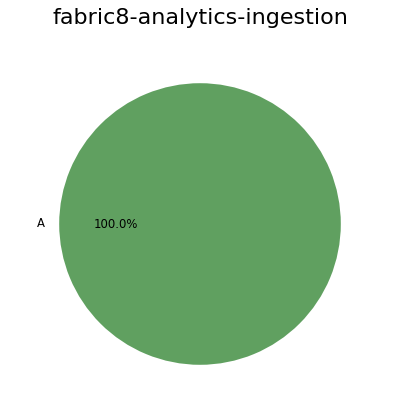
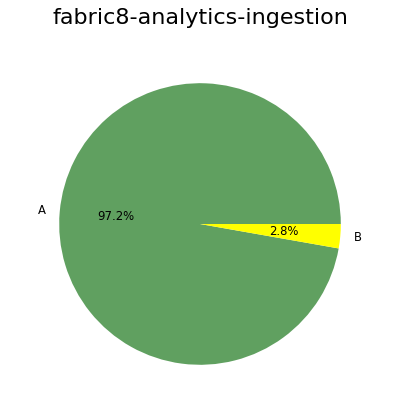
Dashboard 2018-06-20

Changed region(s): [[0.51, 0.54, 0.9, 0.63], [0.24, 0.51, 0.36, 0.57], [0.09, 0.51, 0.12, 0.57]]

diff --git a/dashboard/dashboard.html b/dashboard/dashboard.html
@@ -49,7 +49,7 @@
                                     <a href='https://ci.centos.org/job/devtools-test-end-to-end-prod-fabric8-analytics'>link</a>
                                 </td>
                             <td style="width:3ex">
-                                <a href='https://ci.centos.org/job/devtools-test-end-to-end-prod-fabric8-analytics'>92/100</a>
+                                <a href='https://ci.centos.org/job/devtools-test-end-to-end-prod-fabric8-analytics'>94/100</a>
                             </td>
                         </tr>
                     </table>
@@ -282,7 +282,7 @@
                                     </a>
                                 </td>
                                 <td class="numeric ok" style="width:6ex">5806</td>
-                                <td class="numeric error" style="width:6ex">2095</td>
+                                <td class="numeric error" style="width:6ex">2094</td>
                                 <td class="numeric" style="width:16ex">
                                     <a href="fabric8-analytics-worker.coverage.txt">
                                         <div class='progress-bar progress-bar-warning progress-bar-striped' style='width:69.4%'>
@@ -507,7 +507,7 @@
                         <tr>
                             <td style="width:34ex"><a href="https://github.com/fabric8-analytics/fabric8-analytics-data-model">fabric8-analytics-data-model</a></td>
                             <td class="numeric" style="width:7ex"><a href="repository_fabric8-analytics-data-model.html">20</a></td>
-                            <td class="numeric" style="width:7ex">2132</td>
+                            <td class="numeric" style="width:7ex">2136</td>
                                 <td class="numeric ok" style="width:6ex">20</td>
                                 <td class="numeric error" style="width:6ex">0</td>
                                 <td class="numeric" style="width:16ex">
@@ -843,9 +843,9 @@
                             <td style="width:26ex"></td>
                         <tr>
                             <td style="width:34ex"><a href="https://github.com/fabric8-analytics/fabric8-analytics-ingestion">fabric8-analytics-ingestion</a></td>
-                            <td class="numeric" style="width:7ex"><a href="repository_fabric8-analytics-ingestion.html">13</a></td>
-                            <td class="numeric" style="width:7ex">651</td>
-                                <td class="numeric ok" style="width:6ex">13</td>
+                            <td class="numeric" style="width:7ex"><a href="repository_fabric8-analytics-ingestion.html">12</a></td>
+                            <td class="numeric" style="width:7ex">801</td>
+                                <td class="numeric ok" style="width:6ex">12</td>
                                 <td class="numeric error" style="width:6ex">0</td>
                                 <td class="numeric" style="width:16ex">
                                     <a href="fabric8-analytics-ingestion.linter.txt">
@@ -854,7 +854,7 @@
                                         </div>
                                     </a>
                                 </td>
-                                <td class="numeric ok" style="width:6ex">13</td>
+                                <td class="numeric ok" style="width:6ex">12</td>
                                 <td class="numeric error" style="width:6ex">0</td>
                                 <td class="numeric" style="width:16ex">
                                     <a href="fabric8-analytics-ingestion.pydocstyle.txt">
@@ -873,15 +873,15 @@
                                     </a>
                                 </td>
 
-                                <td class="numeric ignored" style="width:3ex;padding-left:0px;padding-right:2px;"><a href="fabric8-analytics-ingestion.cc.A.html" class="numeric ignored">29</a></td>
-                                <td class="numeric ignored" style="width:3ex;padding-left:0px;padding-right:2px;"><a href="fabric8-analytics-ingestion.cc.B.html" class="numeric ignored">0</a></td>
+                                <td class="numeric ignored" style="width:3ex;padding-left:0px;padding-right:2px;"><a href="fabric8-analytics-ingestion.cc.A.html" class="numeric ignored">35</a></td>
+                                <td class="numeric ignored" style="width:3ex;padding-left:0px;padding-right:2px;"><a href="fabric8-analytics-ingestion.cc.B.html" class="numeric ignored">1</a></td>
                                 <td class="numeric ignored" style="width:3ex;padding-left:0px;padding-right:2px;"><a href="fabric8-analytics-ingestion.cc.C.html" class="numeric ignored">0</a></td>
 
                                     <td class="numeric ok" style="width:3ex;padding-left:0px;padding-right:2px;"><a href="fabric8-analytics-ingestion.cc.D.html" class="numeric ok">0</a></td>
                                     <td class="numeric ok" style="width:3ex;padding-left:0px;padding-right:2px;"><a href="fabric8-analytics-ingestion.cc.E.html" class="numeric ok">0</a></td>
                                     <td class="numeric ok" style="width:3ex;padding-left:0px;padding-right:2px;"><a href="fabric8-analytics-ingestion.cc.F.html" class="numeric ok">0</a></td>
 
-                            <td class="numeric ignored" style="width:3ex;padding-left:0px;padding-right:2px;"><a href="fabric8-analytics-ingestion.mi.A.html" class="numeric ignored">13</a></td>
+                            <td class="numeric ignored" style="width:3ex;padding-left:0px;padding-right:2px;"><a href="fabric8-analytics-ingestion.mi.A.html" class="numeric ignored">12</a></td>
 
                                     <td class="numeric ok" style="width:3ex;padding-left:0px;padding-right:2px;"><a href="fabric8-analytics-ingestion.mi.B.html" class="numeric ok">0</a></td>
                                     <td class="numeric ok" style="width:3ex;padding-left:0px;padding-right:2px;"><a href="fabric8-analytics-ingestion.mi.C.html" class="numeric ok">0</a></td>
@@ -912,12 +912,12 @@
                                         </div>
                                     </a>
                                 </td>
-                                <td class="numeric ok" style="width:6ex">330</td>
-                                <td class="numeric error" style="width:6ex">157</td>
+                                <td class="numeric ok" style="width:6ex">335</td>
+                                <td class="numeric error" style="width:6ex">104</td>
                                 <td class="numeric" style="width:16ex">
                                     <a href="fabric8-analytics-npm-insights.coverage.txt">
-                                        <div class='progress-bar progress-bar-warning progress-bar-striped' style='width:59.199999999999996%'>
-                                        52%
+                                        <div class='progress-bar progress-bar-warning progress-bar-striped' style='width:73.65%'>
+                                        69%
                                         </div>
                                     </a>
                                 </td>
@@ -1290,7 +1290,7 @@
             </div>
             <div style='height:100px'></div>
             <div>Author: Pavel Tisnovsky &lt;<a href="mailto:ptisnovs@redhat.com">ptisnovs@redhat.com</a>&gt;</div>
-            <div>Generated on: 2018-06-19 14:43:54</div>
+            <div>Generated on: 2018-06-20 14:20:55</div>
         </div>
         <script type="text/javascript">
         $(function () {

diff --git a/dashboard/fabric8-analytics-ingestion.cc.A.html b/dashboard/fabric8-analytics-ingestion.cc.A.html
@@ -1,7 +1,7 @@
 <pre>setup.py
     <span style="color:#AA00AA">F </span>25:0 get_requirements - <span style="color:#00AA00">A (4)</span>
 tests/test_utils.py
-    <span style="color:#AA00AA">F </span>8:0 test_dummy - <span style="color:#00AA00">A (1)</span>
+    <span style="color:#AA00AA">F </span>7:0 test_dummy - <span style="color:#00AA00">A (1)</span>
 f8a_ingestion/models.py
     <span style="color:#00AA00">M </span>84:4 BayesianModelMixin.get_or_create - <span style="color:#00AA00">A (4)</span>
     <span style="color:#00AAAA">C </span>45:0 BayesianModelMixin - <span style="color:#00AA00">A (3)</span>
@@ -9,34 +9,42 @@ f8a_ingestion/models.py
     <span style="color:#AA00AA">F </span>35:0 create_db_scoped_session - <span style="color:#00AA00">A (2)</span>
     <span style="color:#00AA00">M </span>56:4 BayesianModelMixin.to_dict - <span style="color:#00AA00">A (2)</span>
     <span style="color:#00AA00">M </span>75:4 BayesianModelMixin.by_id - <span style="color:#00AA00">A (2)</span>
-    <span style="color:#00AA00">M </span>134:4 Ecosystem.by_name - <span style="color:#00AA00">A (2)</span>
-    <span style="color:#00AAAA">C </span>144:0 Package - <span style="color:#00AA00">A (2)</span>
-    <span style="color:#00AA00">M </span>160:4 Package.by_name - <span style="color:#00AA00">A (2)</span>
-    <span style="color:#00AAAA">C </span>171:0 Version - <span style="color:#00AA00">A (2)</span>
-    <span style="color:#00AA00">M </span>185:4 Version.by_identifier - <span style="color:#00AA00">A (2)</span>
+    <span style="color:#00AA00">M </span>133:4 Ecosystem.by_name - <span style="color:#00AA00">A (2)</span>
+    <span style="color:#00AAAA">C </span>143:0 Package - <span style="color:#00AA00">A (2)</span>
+    <span style="color:#00AA00">M </span>159:4 Package.by_name - <span style="color:#00AA00">A (2)</span>
+    <span style="color:#00AAAA">C </span>170:0 Version - <span style="color:#00AA00">A (2)</span>
+    <span style="color:#00AA00">M </span>184:4 Version.by_identifier - <span style="color:#00AA00">A (2)</span>
     <span style="color:#00AAAA">C </span>106:0 Ecosystem - <span style="color:#00AA00">A (1)</span>
-    <span style="color:#00AA00">M </span>120:4 Ecosystem.backend - <span style="color:#00AA00">A (1)</span>
-    <span style="color:#00AA00">M </span>125:4 Ecosystem.backend - <span style="color:#00AA00">A (1)</span>
-    <span style="color:#00AA00">M </span>130:4 Ecosystem.is_backed_by - <span style="color:#00AA00">A (1)</span>
+    <span style="color:#00AA00">M </span>119:4 Ecosystem.backend - <span style="color:#00AA00">A (1)</span>
+    <span style="color:#00AA00">M </span>124:4 Ecosystem.backend - <span style="color:#00AA00">A (1)</span>
+    <span style="color:#00AA00">M </span>129:4 Ecosystem.is_backed_by - <span style="color:#00AA00">A (1)</span>
+f8a_ingestion/utils.py
+    <span style="color:#00AA00">M </span>116:4 DatabaseIngestion.get_info - <span style="color:#00AA00">A (5)</span>
+    <span style="color:#00AAAA">C </span>67:0 DatabaseIngestion - <span style="color:#00AA00">A (4)</span>
+    <span style="color:#00AA00">M </span>89:4 DatabaseIngestion.store_record - <span style="color:#00AA00">A (4)</span>
+    <span style="color:#AA00AA">F </span>39:0 validate_request_data - <span style="color:#00AA00">A (3)</span>
+    <span style="color:#00AA00">M </span>70:4 DatabaseIngestion.update_data - <span style="color:#00AA00">A (3)</span>
+    <span style="color:#AA00AA">F </span>30:0 get_session - <span style="color:#00AA00">A (2)</span>
+    <span style="color:#AA00AA">F </span>58:0 _eco_object_dict - <span style="color:#00AA00">A (1)</span>
 f8a_ingestion/rest_api.py
+    <span style="color:#AA00AA">F </span>38:0 ingest - <span style="color:#00AA00">B (6)</span>
     <span style="color:#AA00AA">F </span>28:0 readiness - <span style="color:#00AA00">A (1)</span>
-    <span style="color:#AA00AA">F </span>34:0 liveness - <span style="color:#00AA00">A (1)</span>
-    <span style="color:#AA00AA">F </span>40:0 ingest - <span style="color:#00AA00">A (1)</span>
+    <span style="color:#AA00AA">F </span>33:0 liveness - <span style="color:#00AA00">A (1)</span>
 f8a_ingestion/enums.py
     <span style="color:#00AAAA">C </span>24:0 EcosystemBackend - <span style="color:#00AA00">A (1)</span>
     <span style="color:#00AAAA">C </span>35:0 SortOrder - <span style="color:#00AA00">A (1)</span>
 f8a_ingestion/errors.py
     <span style="color:#00AAAA">C </span>21:0 F8AConfigurationException - <span style="color:#00AA00">A (1)</span>
 f8a_ingestion/defaults.py
-    <span style="color:#00AAAA">C </span>31:0 F8AConfiguration - <span style="color:#00AA00">A (1)</span>
-    <span style="color:#00AA00">M </span>34:4 F8AConfiguration._make_postgres_string - <span style="color:#00AA00">A (1)</span>
+    <span style="color:#00AAAA">C </span>33:0 F8AConfiguration - <span style="color:#00AA00">A (1)</span>
+    <span style="color:#00AA00">M </span>36:4 F8AConfiguration._make_postgres_string - <span style="color:#00AA00">A (1)</span>
 alembic/env.py
     <span style="color:#AA00AA">F </span>56:0 run_migrations_online - <span style="color:#00AA00">A (3)</span>
     <span style="color:#AA00AA">F </span>36:0 run_migrations_offline - <span style="color:#00AA00">A (2)</span>
-alembic/versions/08e80e7760f9_initial_migration.py
+alembic/versions/0194c3a2332e_initial_migration.py
     <span style="color:#AA00AA">F </span>19:0 upgrade - <span style="color:#00AA00">A (1)</span>
-    <span style="color:#AA00AA">F </span>53:0 downgrade - <span style="color:#00AA00">A (1)</span>
+    <span style="color:#AA00AA">F </span>63:0 downgrade - <span style="color:#00AA00">A (1)</span>
 
-29 blocks (classes, functions, methods) analyzed.
-Average complexity: <span style="color:#00AA00">A (1.7241379310344827)</span>
+36 blocks (classes, functions, methods) analyzed.
+Average complexity: <span style="color:#00AA00">A (2.138888888888889)</span>
 </pre>

diff --git a/dashboard/repository_fabric8-analytics-ingestion.html b/dashboard/repository_fabric8-analytics-ingestion.html
@@ -32,25 +32,19 @@
                     </tr>
                     <tr>
                         <td><a href="https://github.com/fabric8-analytics/fabric8-analytics-ingestion/blob/master/tests/test_utils.py">tests/test_utils.py</a></td>
-                        <td class="numeric">14</td>
-                            <td class="boolean ok">&#x2713;</td>
-                            <td class="boolean ok">&#x2713;</td>
-                    </tr>
-                    <tr>
-                        <td><a href="https://github.com/fabric8-analytics/fabric8-analytics-ingestion/blob/master/__init__.py">__init__.py</a></td>
-                        <td class="numeric">18</td>
+                        <td class="numeric">13</td>
                             <td class="boolean ok">&#x2713;</td>
                             <td class="boolean ok">&#x2713;</td>
                     </tr>
                     <tr>
                         <td><a href="https://github.com/fabric8-analytics/fabric8-analytics-ingestion/blob/master/setup.py">setup.py</a></td>
-                        <td class="numeric">56</td>
+                        <td class="numeric">58</td>
                             <td class="boolean ok">&#x2713;</td>
                             <td class="boolean ok">&#x2713;</td>
                     </tr>
                     <tr>
                         <td><a href="https://github.com/fabric8-analytics/fabric8-analytics-ingestion/blob/master/f8a_ingestion/models.py">f8a_ingestion/models.py</a></td>
-                        <td class="numeric">192</td>
+                        <td class="numeric">191</td>
                             <td class="boolean ok">&#x2713;</td>
                             <td class="boolean ok">&#x2713;</td>
                     </tr>
@@ -62,13 +56,13 @@
                     </tr>
                     <tr>
                         <td><a href="https://github.com/fabric8-analytics/fabric8-analytics-ingestion/blob/master/f8a_ingestion/utils.py">f8a_ingestion/utils.py</a></td>
-                        <td class="numeric">27</td>
+                        <td class="numeric">140</td>
                             <td class="boolean ok">&#x2713;</td>
                             <td class="boolean ok">&#x2713;</td>
                     </tr>
                     <tr>
                         <td><a href="https://github.com/fabric8-analytics/fabric8-analytics-ingestion/blob/master/f8a_ingestion/rest_api.py">f8a_ingestion/rest_api.py</a></td>
-                        <td class="numeric">47</td>
+                        <td class="numeric">91</td>
                             <td class="boolean ok">&#x2713;</td>
                             <td class="boolean ok">&#x2713;</td>
                     </tr>
@@ -86,13 +80,13 @@
                     </tr>
                     <tr>
                         <td><a href="https://github.com/fabric8-analytics/fabric8-analytics-ingestion/blob/master/f8a_ingestion/defaults.py">f8a_ingestion/defaults.py</a></td>
-                        <td class="numeric">58</td>
+                        <td class="numeric">60</td>
                             <td class="boolean ok">&#x2713;</td>
                             <td class="boolean ok">&#x2713;</td>
                     </tr>
                     <tr>
-                        <td><a href="https://github.com/fabric8-analytics/fabric8-analytics-ingestion/blob/master/alembic/versions/08e80e7760f9_initial_migration.py">alembic/versions/08e80e7760f9_initial_migration.py</a></td>
-                        <td class="numeric">61</td>
+                        <td><a href="https://github.com/fabric8-analytics/fabric8-analytics-ingestion/blob/master/alembic/versions/0194c3a2332e_initial_migration.py">alembic/versions/0194c3a2332e_initial_migration.py</a></td>
+                        <td class="numeric">70</td>
                             <td class="boolean ok">&#x2713;</td>
                             <td class="boolean ok">&#x2713;</td>
                     </tr>
@@ -106,7 +100,7 @@
             </div>
             <div style='height:100px'></div>
             <div>Author: Pavel Tisnovsky &lt;<a href="mailto:ptisnovs@redhat.com">ptisnovs@redhat.com</a>&gt;</div>
-            <div>Generated on: 2018-06-19 14:43:54</div>
+            <div>Generated on: 2018-06-20 14:20:55</div>
         </div>
     </body>
 </html>

diff --git a/dashboard/fabric8-analytics-ingestion.mi.A.html b/dashboard/fabric8-analytics-ingestion.mi.A.html
@@ -1,14 +1,13 @@
-<pre>__init__.py - <span style="color:#00AA00">A (100.00)</span>
-setup.py - <span style="color:#00AA00">A (100.00)</span>
+<pre>setup.py - <span style="color:#00AA00">A (100.00)</span>
 tests/__init__.py - <span style="color:#00AA00">A (100.00)</span>
-tests/test_utils.py - <span style="color:#00AA00">A (76.55)</span>
-f8a_ingestion/models.py - <span style="color:#00AA00">A (73.41)</span>
+tests/test_utils.py - <span style="color:#00AA00">A (78.02)</span>
+f8a_ingestion/models.py - <span style="color:#00AA00">A (73.57)</span>
 f8a_ingestion/__init__.py - <span style="color:#00AA00">A (100.00)</span>
-f8a_ingestion/utils.py - <span style="color:#00AA00">A (100.00)</span>
-f8a_ingestion/rest_api.py - <span style="color:#00AA00">A (94.37)</span>
+f8a_ingestion/utils.py - <span style="color:#00AA00">A (72.86)</span>
+f8a_ingestion/rest_api.py - <span style="color:#00AA00">A (81.72)</span>
 f8a_ingestion/enums.py - <span style="color:#00AA00">A (100.00)</span>
 f8a_ingestion/errors.py - <span style="color:#00AA00">A (100.00)</span>
 f8a_ingestion/defaults.py - <span style="color:#00AA00">A (100.00)</span>
 alembic/env.py - <span style="color:#00AA00">A (87.32)</span>
-alembic/versions/08e80e7760f9_initial_migration.py - <span style="color:#00AA00">A (100.00)</span>
+alembic/versions/0194c3a2332e_initial_migration.py - <span style="color:#00AA00">A (100.00)</span>
 </pre>

diff --git a/dashboard/fabric8-analytics-data-model.cc.A.html b/dashboard/fabric8-analytics-data-model.cc.A.html
@@ -1,7 +1,7 @@
 <pre>sanitycheck.py
-    <span style="color:#AA00AA">F </span>34:0 main - <span style="color:#00AA00">A (4)</span>
-    <span style="color:#AA00AA">F </span>15:0 test_http_connection - <span style="color:#00AA00">A (3)</span>
-    <span style="color:#AA00AA">F </span>29:0 time_remaining - <span style="color:#00AA00">A (1)</span>
+    <span style="color:#AA00AA">F </span>36:0 main - <span style="color:#00AA00">A (4)</span>
+    <span style="color:#AA00AA">F </span>17:0 test_http_connection - <span style="color:#00AA00">A (3)</span>
+    <span style="color:#AA00AA">F </span>31:0 time_remaining - <span style="color:#00AA00">A (1)</span>
 src/graph_populator.py
     <span style="color:#00AA00">M </span>48:4 GraphPopulator.construct_version_query - <span style="color:#AA0000">E (31)</span>
     <span style="color:#00AA00">M </span>198:4 GraphPopulator.construct_package_query - <span style="color:#AA5500">D (21)</span>

diff --git a/dashboard/repository_fabric8-analytics-data-model.html b/dashboard/repository_fabric8-analytics-data-model.html
@@ -140,7 +140,7 @@
                     </tr>
                     <tr>
                         <td><a href="https://github.com/fabric8-analytics/fabric8-analytics-data-model/blob/master/sanitycheck.py">sanitycheck.py</a></td>
-                        <td class="numeric">57</td>
+                        <td class="numeric">61</td>
                             <td class="boolean ok">&#x2713;</td>
                             <td class="boolean ok">&#x2713;</td>
                     </tr>
@@ -148,7 +148,7 @@
             </div>
             <div style='height:100px'></div>
             <div>Author: Pavel Tisnovsky &lt;<a href="mailto:ptisnovs@redhat.com">ptisnovs@redhat.com</a>&gt;</div>
-            <div>Generated on: 2018-06-19 14:43:54</div>
+            <div>Generated on: 2018-06-20 14:20:55</div>
         </div>
     </body>
 </html>

diff --git a/dashboard/repository_fabric8-analytics-common.html b/dashboard/repository_fabric8-analytics-common.html
@@ -634,7 +634,7 @@
             </div>
             <div style='height:100px'></div>
             <div>Author: Pavel Tisnovsky &lt;<a href="mailto:ptisnovs@redhat.com">ptisnovs@redhat.com</a>&gt;</div>
-            <div>Generated on: 2018-06-19 14:43:54</div>
+            <div>Generated on: 2018-06-20 14:20:55</div>
         </div>
     </body>
 </html>

diff --git a/dashboard/repository_fabric8-analytics-jobs.html b/dashboard/repository_fabric8-analytics-jobs.html
@@ -274,7 +274,7 @@
             </div>
             <div style='height:100px'></div>
             <div>Author: Pavel Tisnovsky &lt;<a href="mailto:ptisnovs@redhat.com">ptisnovs@redhat.com</a>&gt;</div>
-            <div>Generated on: 2018-06-19 14:43:54</div>
+            <div>Generated on: 2018-06-20 14:20:55</div>
         </div>
     </body>
 </html>

diff --git a/dashboard/repository_fabric8-analytics-license-analysis.html b/dashboard/repository_fabric8-analytics-license-analysis.html
@@ -202,7 +202,7 @@
             </div>
             <div style='height:100px'></div>
             <div>Author: Pavel Tisnovsky &lt;<a href="mailto:ptisnovs@redhat.com">ptisnovs@redhat.com</a>&gt;</div>
-            <div>Generated on: 2018-06-19 14:43:54</div>
+            <div>Generated on: 2018-06-20 14:20:55</div>
         </div>
     </body>
 </html>

diff --git a/dashboard/repository_fabric8-analytics-npm-insights.html b/dashboard/repository_fabric8-analytics-npm-insights.html
@@ -148,7 +148,7 @@
             </div>
             <div style='height:100px'></div>
             <div>Author: Pavel Tisnovsky &lt;<a href="mailto:ptisnovs@redhat.com">ptisnovs@redhat.com</a>&gt;</div>
-            <div>Generated on: 2018-06-19 14:43:54</div>
+            <div>Generated on: 2018-06-20 14:20:55</div>
         </div>
     </body>
 </html>

diff --git a/dashboard/repository_fabric8-analytics-nvd-toolkit.html b/dashboard/repository_fabric8-analytics-nvd-toolkit.html
@@ -226,7 +226,7 @@
             </div>
             <div style='height:100px'></div>
             <div>Author: Pavel Tisnovsky &lt;<a href="mailto:ptisnovs@redhat.com">ptisnovs@redhat.com</a>&gt;</div>
-            <div>Generated on: 2018-06-19 14:43:54</div>
+            <div>Generated on: 2018-06-20 14:20:55</div>
         </div>
     </body>
 </html>

diff --git a/dashboard/repository_fabric8-analytics-recommender.html b/dashboard/repository_fabric8-analytics-recommender.html
@@ -124,7 +124,7 @@
             </div>
             <div style='height:100px'></div>
             <div>Author: Pavel Tisnovsky &lt;<a href="mailto:ptisnovs@redhat.com">ptisnovs@redhat.com</a>&gt;</div>
-            <div>Generated on: 2018-06-19 14:43:54</div>
+            <div>Generated on: 2018-06-20 14:20:55</div>
         </div>
     </body>
 </html>
